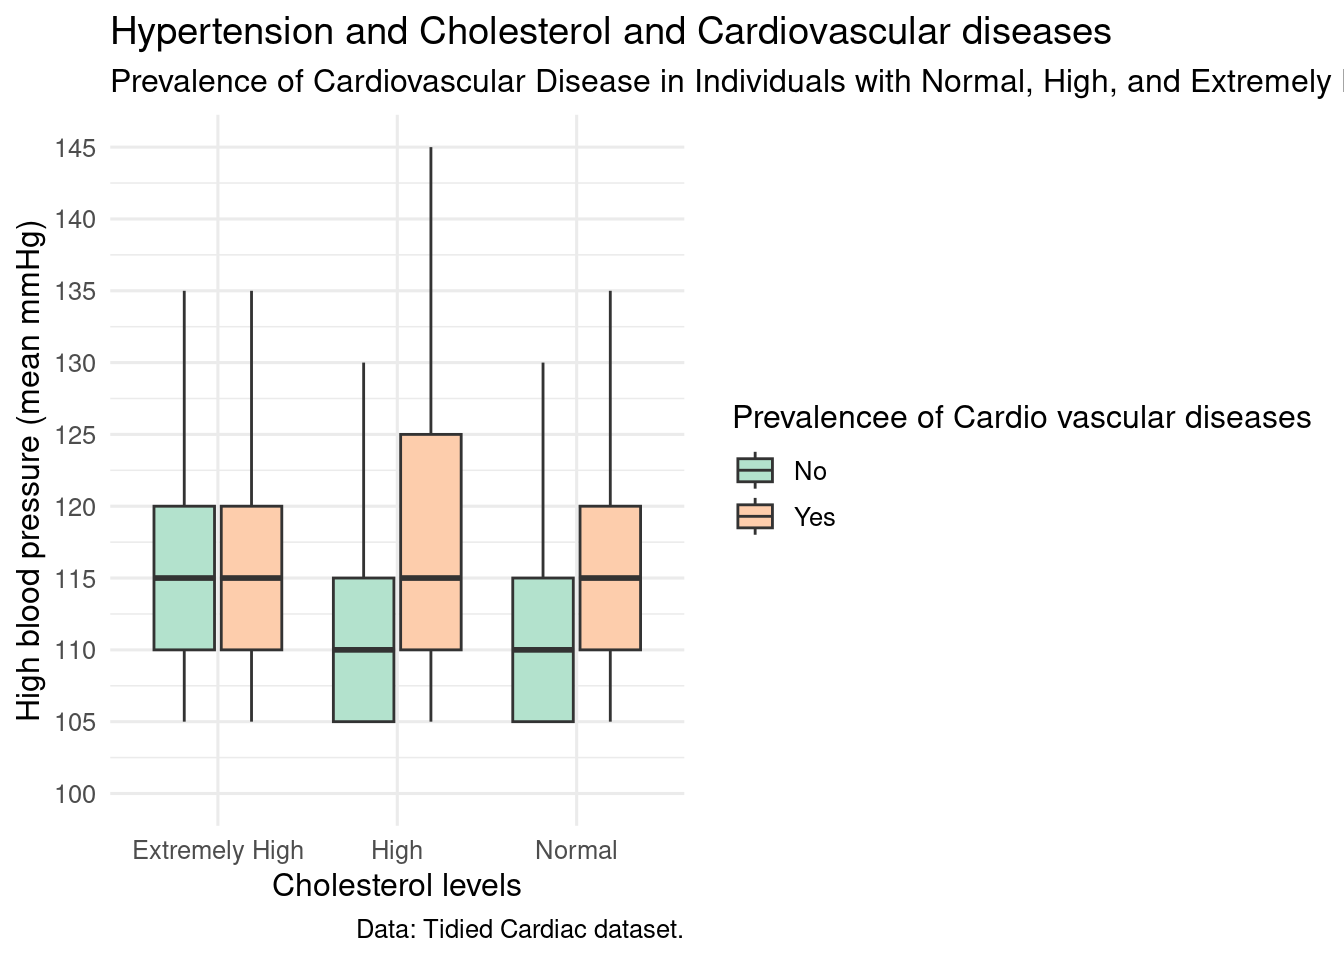
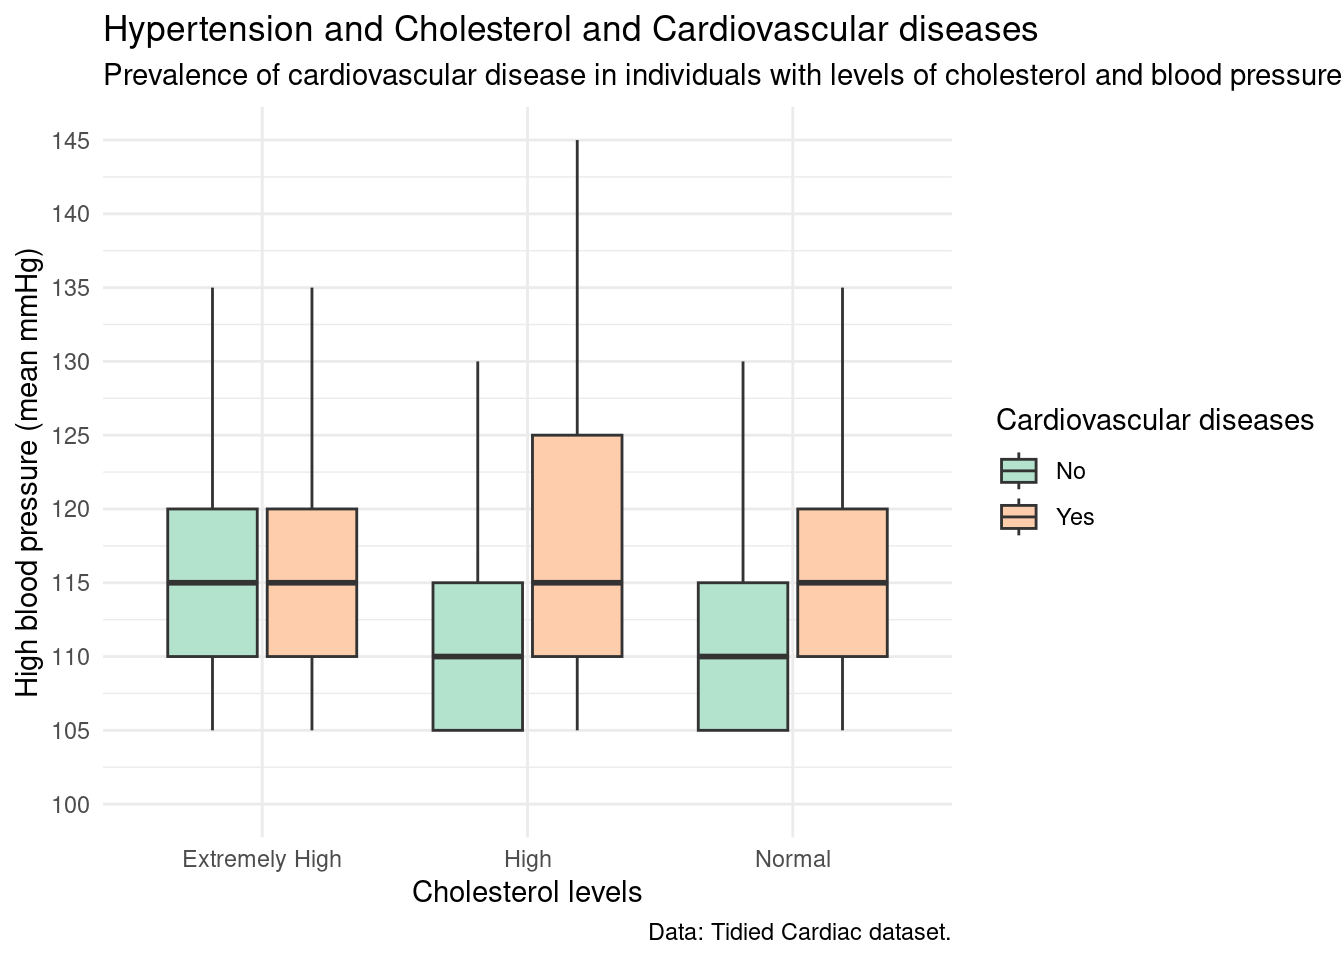
Creation of second graph

diff --git a/docs/index.html b/docs/index.html
@@ -807,22 +807,50 @@ $ bmi               &lt;dbl&gt; 22.0, 34.9, 23.5, 28.7, 23.0, 29.4, 37.7, 30.0, 
 <span id="cb34-7"><a href="#cb34-7" aria-hidden="true" tabindex="-1"></a><span class="fu">ggplot</span>(<span class="at">data =</span> High_Pressure_Cholesterol_CV_disease, </span>
 <span id="cb34-8"><a href="#cb34-8" aria-hidden="true" tabindex="-1"></a>       <span class="at">mapping =</span> <span class="fu">aes</span>(<span class="at">x =</span> cholesterol,</span>
 <span id="cb34-9"><a href="#cb34-9" aria-hidden="true" tabindex="-1"></a>                     <span class="at">y =</span> High_Pressure, </span>
-<span id="cb34-10"><a href="#cb34-10" aria-hidden="true" tabindex="-1"></a>                     <span class="at">fill=</span> Cardiovascular_disease)) <span class="sc">+</span> <span class="co">#agrega colores en base a una variable </span></span>
+<span id="cb34-10"><a href="#cb34-10" aria-hidden="true" tabindex="-1"></a>                     <span class="at">fill=</span> Cardiovascular_disease)) <span class="sc">+</span> </span>
 <span id="cb34-11"><a href="#cb34-11" aria-hidden="true" tabindex="-1"></a>  <span class="fu">geom_boxplot</span>(<span class="at">outlier.shape =</span> <span class="cn">NA</span>) <span class="sc">+</span></span>
 <span id="cb34-12"><a href="#cb34-12" aria-hidden="true" tabindex="-1"></a>  <span class="fu">scale_y_continuous</span>(<span class="at">breaks =</span> <span class="fu">seq</span>(<span class="dv">100</span>, <span class="dv">145</span>, <span class="dv">5</span>), <span class="at">limits =</span> <span class="fu">c</span>(<span class="dv">100</span>, <span class="dv">145</span>)) <span class="sc">+</span></span>
 <span id="cb34-13"><a href="#cb34-13" aria-hidden="true" tabindex="-1"></a>  <span class="fu">scale_fill_brewer</span>(<span class="at">type =</span> <span class="st">"qual"</span>, <span class="at">palette =</span> <span class="dv">5</span>) <span class="sc">+</span></span>
 <span id="cb34-14"><a href="#cb34-14" aria-hidden="true" tabindex="-1"></a>  <span class="fu">labs</span>(<span class="at">title =</span> <span class="st">"Hypertension and Cholesterol and Cardiovascular diseases"</span>,</span>
-<span id="cb34-15"><a href="#cb34-15" aria-hidden="true" tabindex="-1"></a>       <span class="at">subtitle =</span> <span class="st">"Prevalence of Cardiovascular Disease in Individuals with Normal, High, and Extremely High Levels of Cholesterol and Blood Pressure"</span>,</span>
+<span id="cb34-15"><a href="#cb34-15" aria-hidden="true" tabindex="-1"></a>       <span class="at">subtitle =</span> <span class="st">"Prevalence of cardiovascular disease in individuals with levels of cholesterol and blood pressure"</span>,</span>
 <span id="cb34-16"><a href="#cb34-16" aria-hidden="true" tabindex="-1"></a>       <span class="at">x =</span> <span class="st">"Cholesterol levels"</span>,</span>
 <span id="cb34-17"><a href="#cb34-17" aria-hidden="true" tabindex="-1"></a>       <span class="at">y =</span> <span class="st">"High blood pressure (mean mmHg)"</span>,</span>
-<span id="cb34-18"><a href="#cb34-18" aria-hidden="true" tabindex="-1"></a>       <span class="at">fill =</span> <span class="st">"Prevalencee of Cardio vascular diseases"</span>,</span>
+<span id="cb34-18"><a href="#cb34-18" aria-hidden="true" tabindex="-1"></a>       <span class="at">fill =</span> <span class="st">"Cardiovascular diseases"</span>,</span>
 <span id="cb34-19"><a href="#cb34-19" aria-hidden="true" tabindex="-1"></a>       <span class="at">caption =</span> <span class="st">"Data: Tidied Cardiac dataset."</span></span>
 <span id="cb34-20"><a href="#cb34-20" aria-hidden="true" tabindex="-1"></a>  ) <span class="sc">+</span></span>
-<span id="cb34-21"><a href="#cb34-21" aria-hidden="true" tabindex="-1"></a>  <span class="fu">theme_minimal</span>(<span class="at">base_size =</span> <span class="dv">12</span>) </span></code><button title="Copy to Clipboard" class="code-copy-button"><i class="bi"></i></button></pre></div>
+<span id="cb34-21"><a href="#cb34-21" aria-hidden="true" tabindex="-1"></a>  <span class="fu">theme_minimal</span>(<span class="at">base_size =</span> <span class="dv">11</span>) </span></code><button title="Copy to Clipboard" class="code-copy-button"><i class="bi"></i></button></pre></div>
 <div class="cell-output-display">
 <div>
 <figure class="figure">
 <p><img src="index_files/figure-html/unnamed-chunk-5-1.png" class="img-fluid figure-img" width="672"></p>
+</figure>
+</div>
+</div>
+</div>
+<p>Age and Cardiovascular disease.</p>
+<div class="cell">
+<div class="sourceCode cell-code" id="cb35"><pre class="sourceCode r code-with-copy"><code class="sourceCode r"><span id="cb35-1"><a href="#cb35-1" aria-hidden="true" tabindex="-1"></a>cv_disease_age <span class="ot">&lt;-</span> Tidied_cardiac_data <span class="sc">|&gt;</span> </span>
+<span id="cb35-2"><a href="#cb35-2" aria-hidden="true" tabindex="-1"></a>  <span class="fu">select</span>(age, Cardiovascular_disease) </span>
+<span id="cb35-3"><a href="#cb35-3" aria-hidden="true" tabindex="-1"></a>  </span>
+<span id="cb35-4"><a href="#cb35-4" aria-hidden="true" tabindex="-1"></a><span class="fu">ggplot</span>(<span class="at">data =</span> cv_disease_age,</span>
+<span id="cb35-5"><a href="#cb35-5" aria-hidden="true" tabindex="-1"></a>       <span class="at">mapping =</span> <span class="fu">aes</span>(<span class="at">x =</span> age,</span>
+<span id="cb35-6"><a href="#cb35-6" aria-hidden="true" tabindex="-1"></a>                     <span class="at">fill =</span> Cardiovascular_disease)) <span class="sc">+</span></span>
+<span id="cb35-7"><a href="#cb35-7" aria-hidden="true" tabindex="-1"></a>  <span class="fu">geom_histogram</span>(<span class="at">col =</span> <span class="st">"grey30"</span>,</span>
+<span id="cb35-8"><a href="#cb35-8" aria-hidden="true" tabindex="-1"></a>                 <span class="at">breaks =</span> <span class="fu">seq</span>(<span class="dv">30</span>, <span class="dv">70</span>, <span class="dv">2</span>)) <span class="sc">+</span></span>
+<span id="cb35-9"><a href="#cb35-9" aria-hidden="true" tabindex="-1"></a>  <span class="fu">scale_fill_brewer</span>(<span class="at">type =</span> <span class="st">"qual"</span>, <span class="at">palette =</span> <span class="dv">5</span>) <span class="sc">+</span></span>
+<span id="cb35-10"><a href="#cb35-10" aria-hidden="true" tabindex="-1"></a>  <span class="fu">scale_y_continuous</span>(<span class="at">breaks =</span> <span class="fu">seq</span>(<span class="dv">0</span>, <span class="dv">7500</span>, <span class="dv">1000</span>), <span class="at">limits =</span> <span class="fu">c</span>(<span class="dv">0</span>, <span class="dv">7500</span>)) <span class="sc">+</span></span>
+<span id="cb35-11"><a href="#cb35-11" aria-hidden="true" tabindex="-1"></a>  <span class="fu">labs</span>(<span class="at">title =</span> <span class="st">"Age and Cardiovascular diseases"</span>,</span>
+<span id="cb35-12"><a href="#cb35-12" aria-hidden="true" tabindex="-1"></a>       <span class="at">subtitle =</span> <span class="st">"Prevalence of Cardiovascular Disease Across Age Groups"</span>,</span>
+<span id="cb35-13"><a href="#cb35-13" aria-hidden="true" tabindex="-1"></a>       <span class="at">x =</span> <span class="st">"Age groups (2 years)"</span>,</span>
+<span id="cb35-14"><a href="#cb35-14" aria-hidden="true" tabindex="-1"></a>       <span class="at">y =</span> <span class="st">"Number of people"</span>,</span>
+<span id="cb35-15"><a href="#cb35-15" aria-hidden="true" tabindex="-1"></a>       <span class="at">fill =</span> <span class="st">"Cardiovascular diseases"</span>,</span>
+<span id="cb35-16"><a href="#cb35-16" aria-hidden="true" tabindex="-1"></a>       <span class="at">caption =</span> <span class="st">"Data: Tidied Cardiac dataset."</span></span>
+<span id="cb35-17"><a href="#cb35-17" aria-hidden="true" tabindex="-1"></a>  ) <span class="sc">+</span></span>
+<span id="cb35-18"><a href="#cb35-18" aria-hidden="true" tabindex="-1"></a>  <span class="fu">theme_minimal</span>(<span class="at">base_size =</span> <span class="dv">11</span>) </span></code><button title="Copy to Clipboard" class="code-copy-button"><i class="bi"></i></button></pre></div>
+<div class="cell-output-display">
+<div>
+<figure class="figure">
+<p><img src="index_files/figure-html/unnamed-chunk-6-1.png" class="img-fluid figure-img" width="672"></p>
 </figure>
 </div>
 </div>
